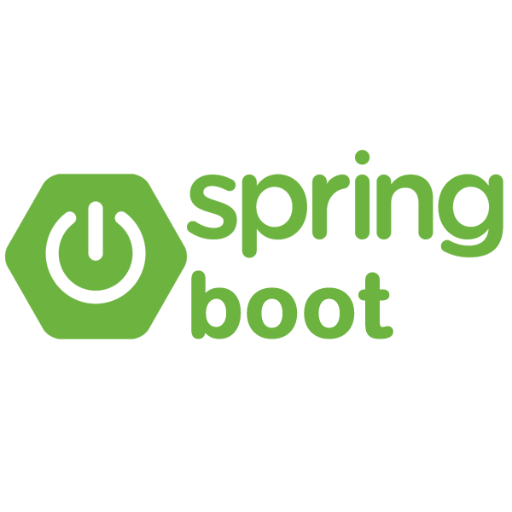
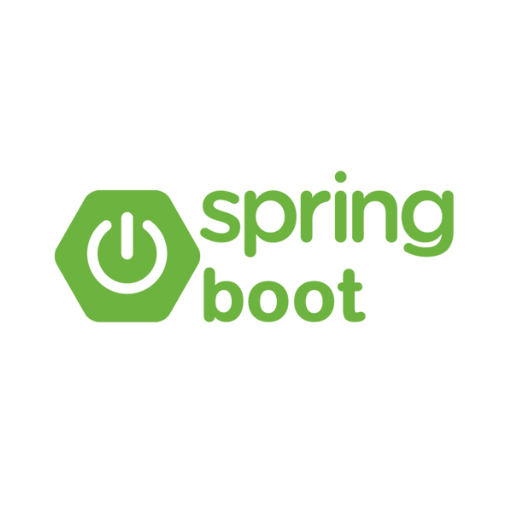
Tech stack has been updated.

Changed region(s): [[0.0, 0.2812, 1.0, 0.6875]]

diff --git a/index.html b/index.html
@@ -93,6 +93,14 @@
                 <a class="box m-0" href="#" target="_blank" rel="noopener" title="modern css website">
                     <img src="images/modern_css.png" alt="modern css icon">
                 </a>
+
+                <a class="box m-0" href="https://spring.io/projects/spring-boot" target="_blank" rel="noopener" title="spring website">
+                    <img src="images/springboot.png" alt="spring icon">
+                </a> 
+
+                <a class="box m-0" href="https://maven.apache.org/" target="_blank" rel="noopener" title="maven website">
+                    <img src="images/maven.png" alt="maven icon">
+                </a>   
                 
                 <a class="box m-0" href="https://www.w3schools.com/sql/sql_intro.asp" target="_blank" rel="noopener" title="sql website">
                     <img src="images/sql.png" alt="sql icon">
@@ -101,30 +109,13 @@
 
         </section>
 
-        <section class="section box">
-            <h4 class="subtitle is-4 has-text-centered">S čím som sa už stretol?</h4>
-
-            <div class="krabicka">
-                <a class="box m-0" href="https://maven.apache.org/" target="_blank" rel="noopener" title="maven website">
-                    <img src="images/maven.png" alt="maven icon">
-                </a>
-                
-                <a class="box m-0" href="https://spring.io/" target="_blank" rel="noopener" title="spring website">
-                    <img src="images/spring.png" alt="spring icon">
-                </a>
-
-                <a class="box m-0" href="https://www.thymeleaf.org/" target="_blank" rel="noopener" title="thymeleaf website">
-                    <img src="images/thymeleaf.png" alt="thymeleaf icon">
-                </a>        
-            </div>
-
-            <p class="is-size-7 mt-6 p-5 has-background-white-ter has-text-dark"><strong>Všetko ale pekne postupne.</strong><br>Do troch vyššie spomenutých technológií som mal možnosť nahliadnuť. Nedovolím si ale tvrdiť, že ich plne ovládam. Ako budú vedomosti pribúdať, aj túto stránku a jej kód budem brúsiť, leštiť, maľovať a pridávať ďalšie fičúrky. Nahliadni do zdrojového kódu, alebo mrkni na <a href="https://github.com/kilocharlie96" target="_blank" rel="noopener" title="Prejsť na GitHub">GitHub</a> a prezri si celú históriu vývoja.</p>
-
+        <section>
+            <p class="is-size-7 mt-6 p-5 has-background-white-ter has-text-dark"><strong>Všetko ale pekne postupne.</strong><br>Niektoré z vyššie spomenutých technológií som mal možnosť vyskúšať. Nedovolím si ale tvrdiť, že ich plne ovládam. Ako budú vedomosti pribúdať, aj túto stránku a jej kód budem brúsiť, leštiť, maľovať a pridávať ďalšie fičúrky. Takisto budem postupne pridávať portfólio ďalších projektov. Mrkni na <a href="https://github.com/kilocharlie96" target="_blank" rel="noopener" title="Prejsť na GitHub">GitHub</a> a prezri si históriu vývoja aj so "zdrojákom", alebo ďalšie projekty.</p>
         </section>
     
 
 
-    <div class="box pre-footer is-flex is-flex-direction-column has-text-centered has-background-white-ter has-text-dark m-1 mt-5">
+    <div class="box pre-footer is-flex is-flex-direction-column has-text-centered has-background-white-ter has-text-dark mt-5">
         <p class="box mb-0 is-size-6 thank-you">Keďže si sa dostal/a až sem, môj výtvor Ťa zrejme aspoň trochu zaujal. Ja mám aspoň trochu menej pocit, že táto stránka patrí aj somnou do koša. Patrí Ti odomňa veľká vďaka a vážim si Tvoju návštevu ❤.</p>
         <p class="pl-6 pr-6 is-size-5">Ak Ťa môj príbeh naozaj zaujal a myslíš, že máš pre mňa vhodný job,
             <a class="email" href="mailto:cernak.kiko@gmail.com" title="Odoslať e-mail">napíš mi 
